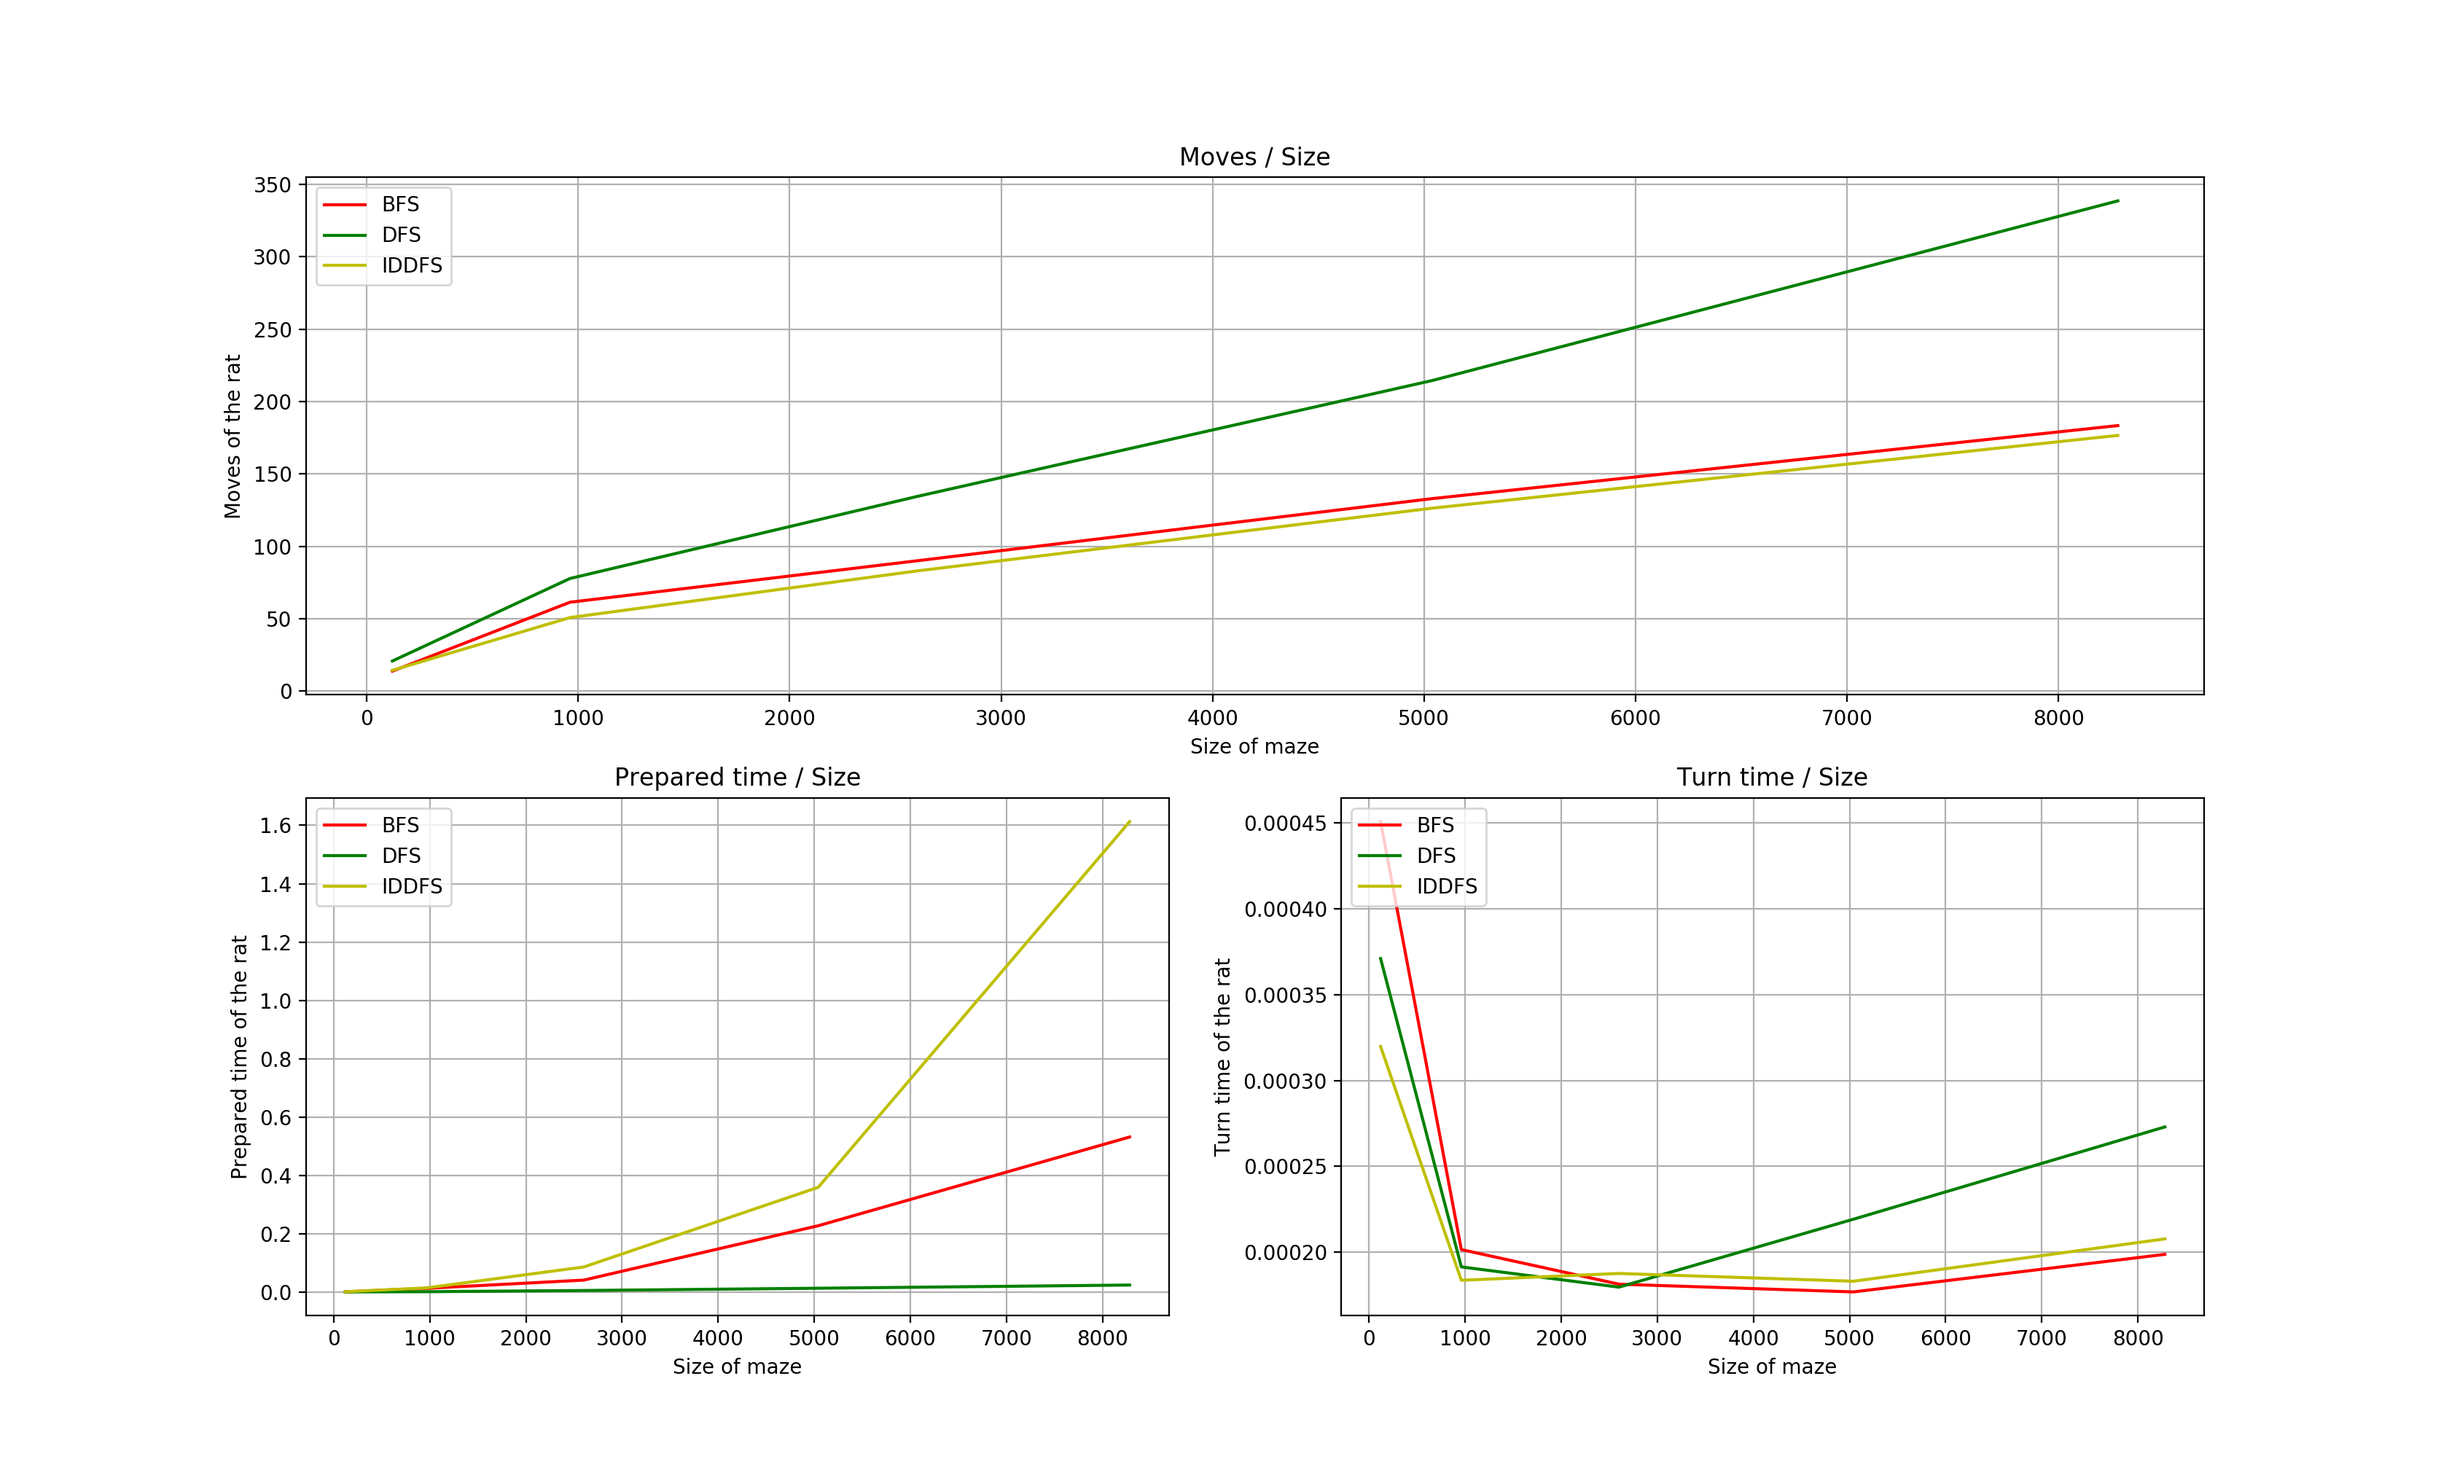
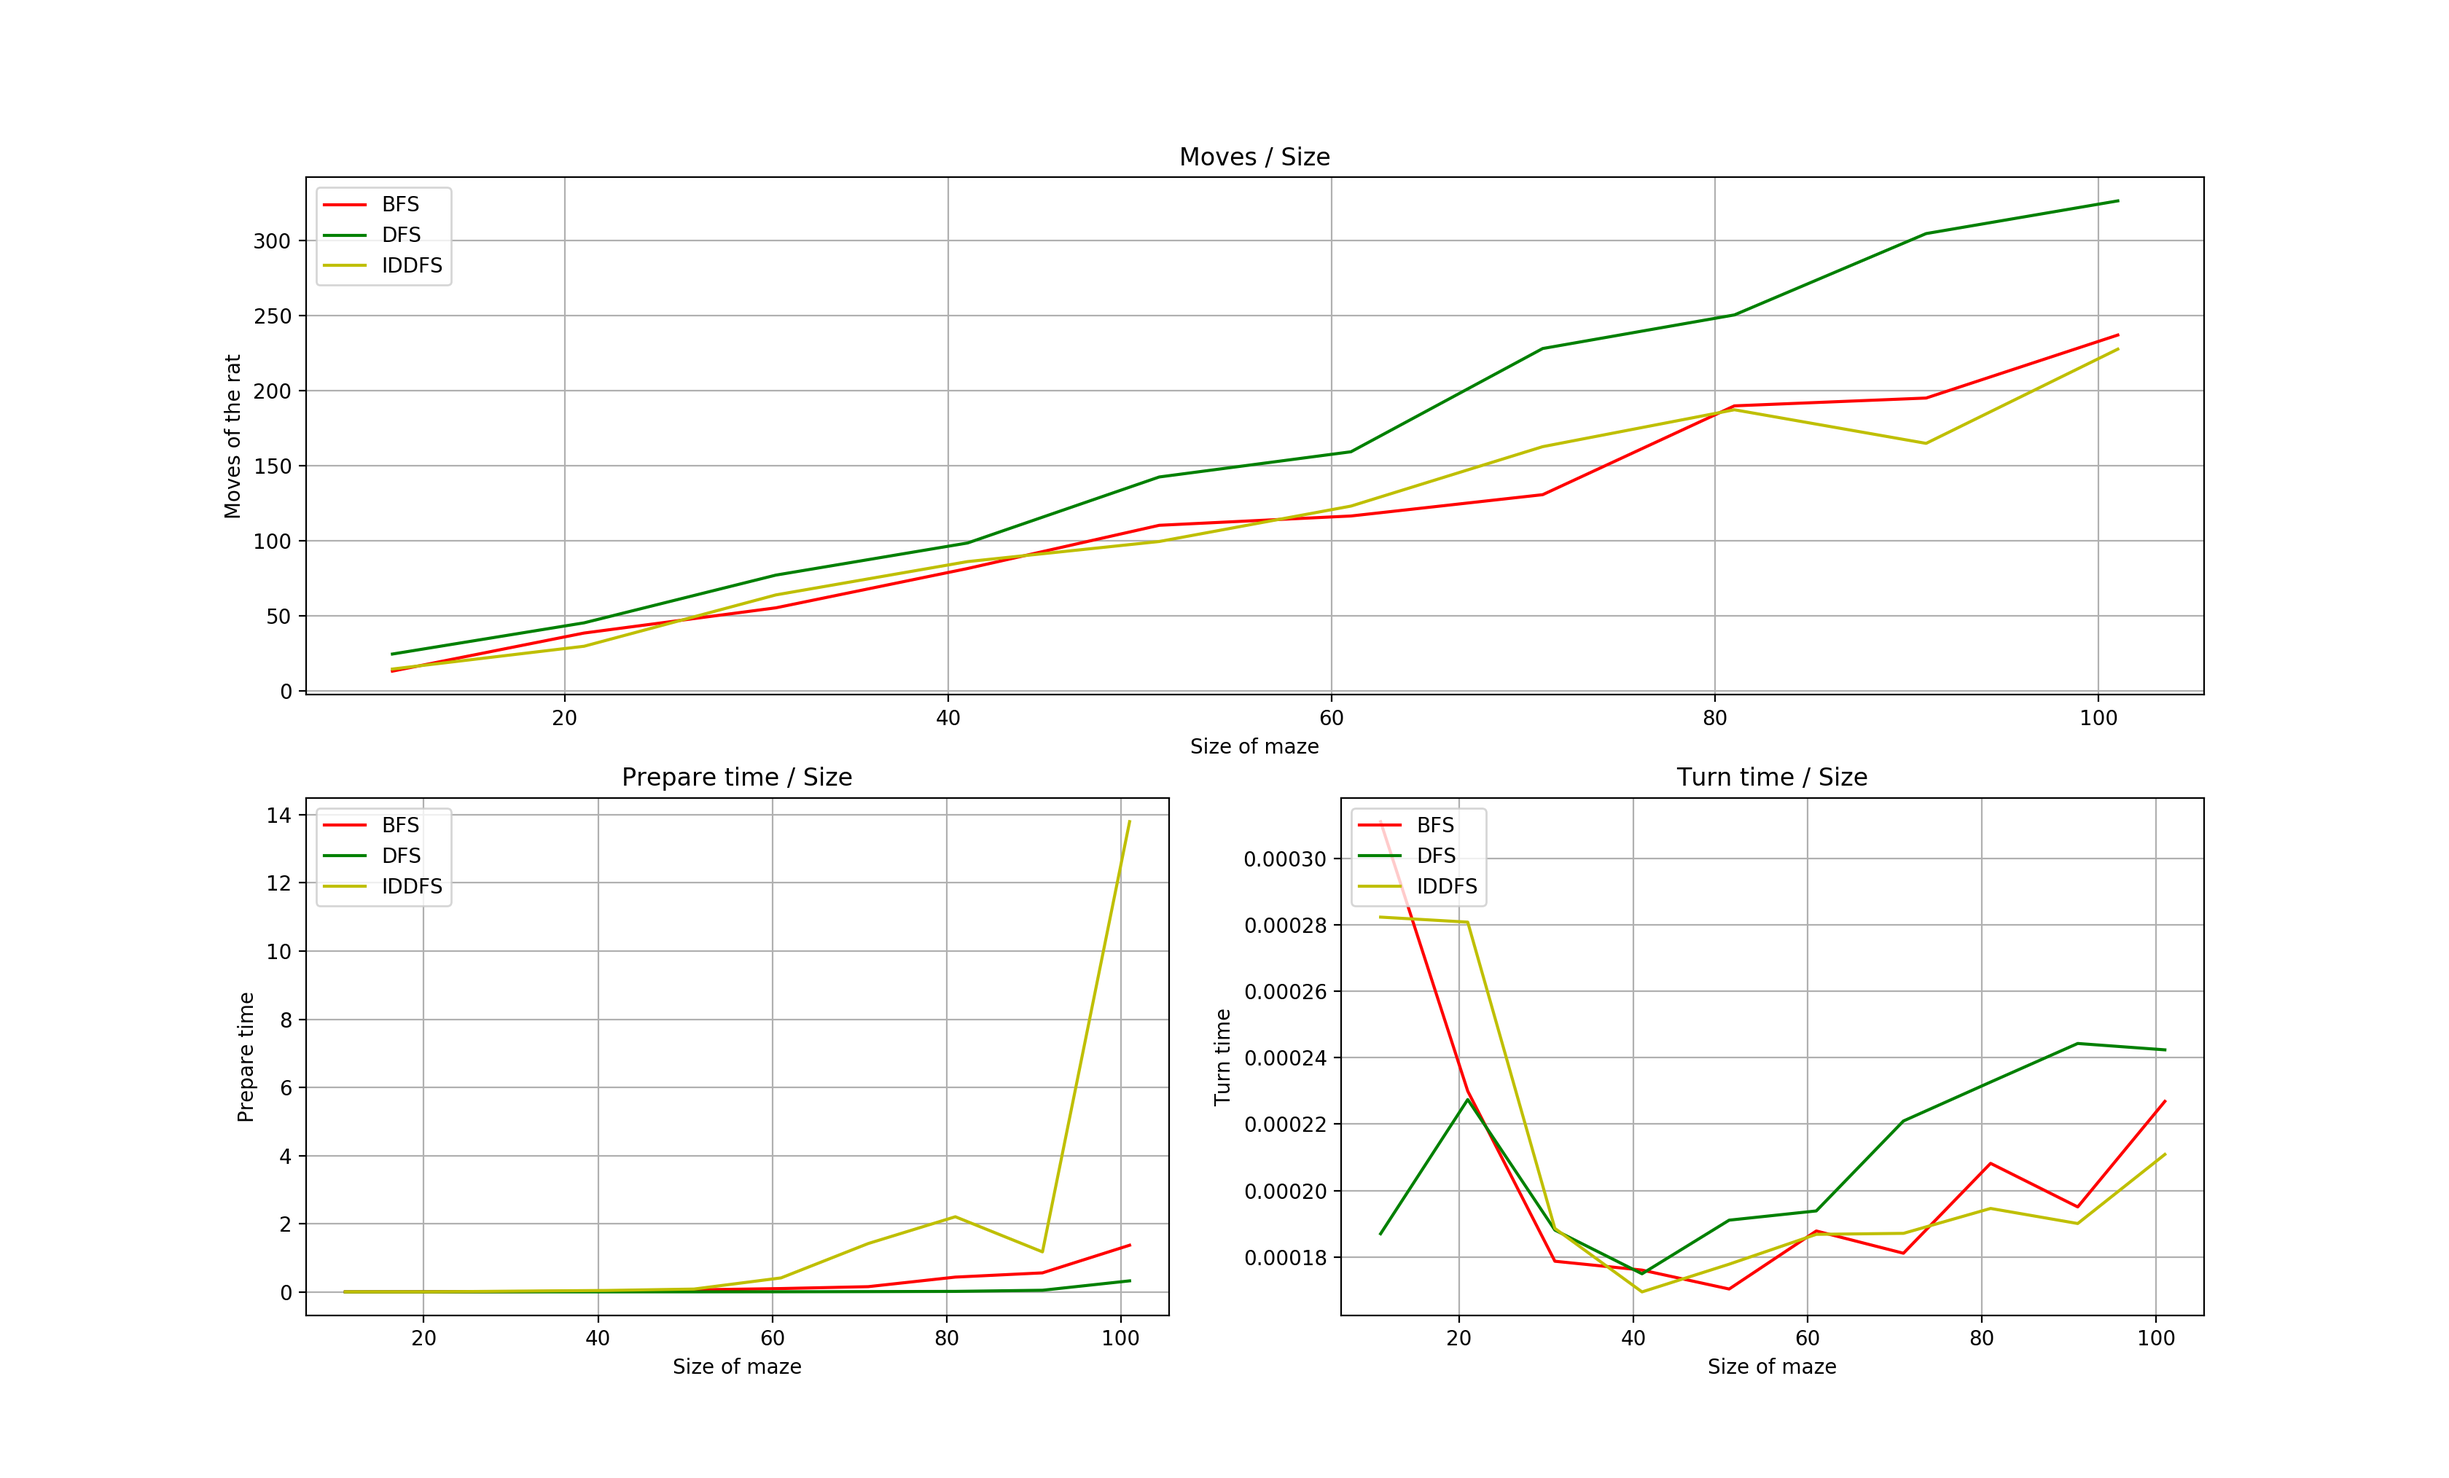
Update the analyse after Lab1

diff --git a/Lab3/DataAnalyse.py b/Lab3/DataAnalyse.py
@@ -35,28 +35,16 @@ def addLables(f):
     return lables
 
 def main():
-    with open("BFS_data.txt", 'r') as f1:
+    with open("Dijkstra_data.txt", 'r') as f1:
         lables = addLables(f1)
         # print(lables)
         f1.seek(0, 0)
         table1 = fillTheTable(f1, lables)
 
-    with open("DFS_data.txt", 'r') as f1:
-        lables = addLables(f1)
-        f1.seek(0, 0)
-        table2 = fillTheTable(f1, lables)
-
-    with open("IDDFS_data.txt", 'r') as f1:
-        lables = addLables(f1)
-        f1.seek(0, 0)
-        table3 = fillTheTable(f1, lables)
     plt.figure()
 
     plt.subplot(2, 1, 1)
-    plt.plot([i for i in table1['Length']], table1['Moves'], color="r", label="BFS")
-    plt.plot([i for i in table2['Length']], table2['Moves'], color="g", label="DFS")
-    plt.plot([i for i in table3['Length']], table3['Moves'], color="y", label="IDDFS")
-
+    plt.plot([i for i in table1['Length']], table1['Moves'], color="r", label="Dijkstra")
     plt.legend(loc='upper left')
     plt.title("Moves / Size")
     plt.xlabel("Size of maze")
@@ -64,9 +52,7 @@ def main():
     plt.grid(True)
 
     plt.subplot(2, 2, 3)
-    plt.plot([i for i in table1['Length']], table1['Preparetime'], color='r', label="BFS")
-    plt.plot([i for i in table2['Length']], table2['Preparetime'], color="g", label="DFS")
-    plt.plot([i for i in table3['Length']], table3['Preparetime'], color="y", label="IDDFS")
+    plt.plot([i for i in table1['Length']], table1['Preparetime'], color='r', label="Dijkstra")
     plt.legend(loc='upper left')
     plt.title("Prepare time / Size")
     plt.xlabel("Size of maze")
@@ -74,9 +60,7 @@ def main():
     plt.grid(True)
 
     plt.subplot(2, 2, 4)
-    plt.plot([i for i in table1['Length']], table1['Turntime'], color='r', label="BFS")
-    plt.plot([i for i in table2['Length']], table2['Turntime'], color="g", label="DFS")
-    plt.plot([i for i in table3['Length']], table3['Turntime'], color="y", label="IDDFS")
+    plt.plot([i for i in table1['Length']], table1['Turntime'], color='r', label="Dijkstra")
     plt.legend(loc='upper left')
     plt.title("Turn time / Size")
     plt.xlabel("Size of maze")

diff --git a/Lab3/Dijkstra_move.py b/Lab3/Dijkstra_move.py
@@ -35,15 +35,23 @@ class VertexDistance:
     def __init__(self, currentVertex, lastVertex, distance):
         """
         Generate a new instance to be stored in priority queue
+        Parameter:
+                    Three elementary data used to finish the algorithm
         """
         self.__vertex = currentVertex
         self.__father = lastVertex
         self.__distance = distance
     
     def __lt__(self, anotherVertexDistance):
+        """
+        For the heapq.heappush()
+        """
         return self.__distance < anotherVertexDistance.distance()
 
     def __str__(self):
+        """
+        For debug
+        """
         return str(self.vertex()) + ", " + str(self.distance())
 
     def distance(self):
@@ -114,7 +122,6 @@ def dijkstra(mazeMap, playerLocation, piecesOfCheese):
         for neighbor in mazeMap[currentVertex]:
             distanceViaCurrentVertex = distance + mazeMap[currentVertex][neighbor]
             addOrReplace(priorityQ, neighbor, distanceViaCurrentVertex, cellVisited, currentVertex)
-        lastVertex = currentVertex
 
     routeTable[currentVertex] = lastVertex
     return routeTable

diff --git a/README.md b/README.md
@@ -20,16 +20,25 @@ Talk is cheap! I will show you my code.
 
 + **Lab2**: Implement a BFS under the condition of unweighted graphs
   + Code admitted: *BFS_move.py* at 15/09/2019, *DFS_move.py* at 16/09/2019, *IDDFS_move.py* at 21/09/2019
-  + With the will to automatically analyse the code, update *AutomaticGetStatistics.sh* (**ATTENTION**: 1. Bug to be fixed, details in <u>TODO</u> of this script; 2. This script may not be useful in Windows)
+  + With the will to automatically analyse the code, update *AutomaticGetStatistics.sh* (**ATTENTION**: 1. Bug to be fixed: <u>after one iteration, script stops without a reasonable excuse</u>; 2. This script may not be useful in Windows)
   + Question found:
     + (**Solved**) Every turn, main program calls function *turn*, however I wrote the code with the imagination that only one call of this function and the pause of this thread. So it is necessary to make this code correct. -> Use a file *instructions.txt* to guide the rat
-	+ (**Solved**)While coding the DFS, the recursion can not be terminated. -> Have to clearly understand the termination condition for a recursion function
-	+ (**Solved**)In beam search, which cost fonction should be chosen for the heuristic cost? **Maybe** <u>Euclidean distance</u> is a good choice.
-	+ (**Solved**)Also in beam search, how should we choose an approprate beam width, for 3 at most? For this reason, I am wandering if it is practical to use beam search in this game. -> Yes it is not interesting.
+  	+ (**Solved**) While coding the DFS, the recursion can not be terminated. -> Have to clearly understand the termination condition for a recursion function
+  	+ (**Solved**) In beam search, which cost fonction should be chosen for the heuristic cost? **Maybe** <u>Euclidean distance</u> is a good choice
+  	+ (**Solved**) Also in beam search, how should we choose an approprate beam width, for 3 at most? For this reason, I am wandering if it is practical to use beam search in this game. -> It is not interesting
 	+ In shell script, how to automatically kill the process elegantly?
   + Lessons learned:
     + Before starting to code, it is vital to understand clearly the demand
-	+ In every recursion function, we must shrewdly consider all the possible conditions for the determination of a recursion or we will get lost and a stack overflow.
+	+ In every recursion function, we must shrewdly consider all the possible conditions for the determination of a recursion or we will get lost and a stack overflow
 	+ Use Shell script to automatically do something interesting
+
++ **Lab3**: Implement Dijkstra's algorithm
+  + Code admitted: *Dijkstra_move* at 25/09/2019
+  + Question found:
+    +  (**Solved**) Whilte trying to use *heapq.heappush(priorityQ, (, ))*, the order of the element containing tuple is not logical. -> Actually, *heapq.heappush()* use *\_\_ls\_\_()* to decide the order in a list
+  + Lessons learned:
+    + Meet *heapq*, and understand how it decides the order of a heap
+    + Reload operators
+    + In binary balance tree (AVL Tree), two kinds of rorations (**hard to under stand** and [click here](https://en.wikipedia.org/wiki/AVL_tree) to know more) are used to keep the **balance factor** under 2
 ---
 **Xidian University / IMT Atlantique**
